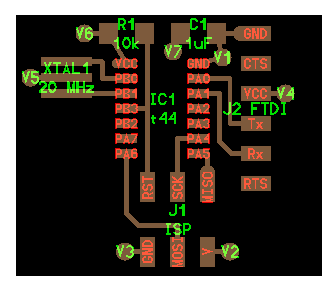
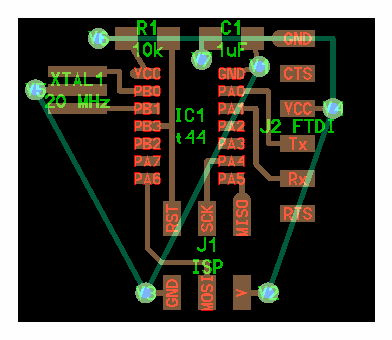
make it more robust by feh only reading out.png

diff --git a/pcb.py b/pcb.py
@@ -22,10 +22,10 @@
 # uncomment for desired output:
 #
 
-output = "top, labels, and exterior"
+#output = "top, labels, and exterior"
 #output = "top, labels, holes, and exterior"
 #output = "top, bottom, labels, and exterior"
-#output = "top, bottom, labels, holes, and exterior"
+output = "top, bottom, labels, holes, and exterior"
 #output = "top traces"
 #output = "top traces and exterior"
 #output = "bottom traces reversed"
@@ -954,6 +954,8 @@ class text:
       # color
       #
       self.shape = '('+str(color)+'*(('+self.shape+')!=0))'
+
+
 
 #
 # PCB classes and definitions

diff --git a/README.md b/README.md
@@ -20,7 +20,7 @@ The script `trigger.sh` contains:
 
 `python pcb.py | python frep.py 300`
 
-`pcb.py` creates a functional representation of the circuit board and saves it in json format. The ouput is passed to `frep.py` which evaluates the functions and generates an RGB matrix which is saved as an image.  
+`pcb.py` creates a functional representation of the circuit board and saves it in json format. The ouput is passed to `frep.py` which evaluates the functions and generates an RGB matrix which is saved as an image at 300 dpi (bigger than that becomes too slow).  
 
 view:  
 `out.png`
@@ -34,7 +34,7 @@ optional frep arguments:
 ## Usage
 
 Open a `feh` image viewer that reloads every few seconds  
-`feh --auto-zoon -R 2 &`
+`feh out.png --auto-zoom -R 2 &`
 
 Open `pcb.py` in vim and start editing. When you want to refresh the image press `F4`.  
 
